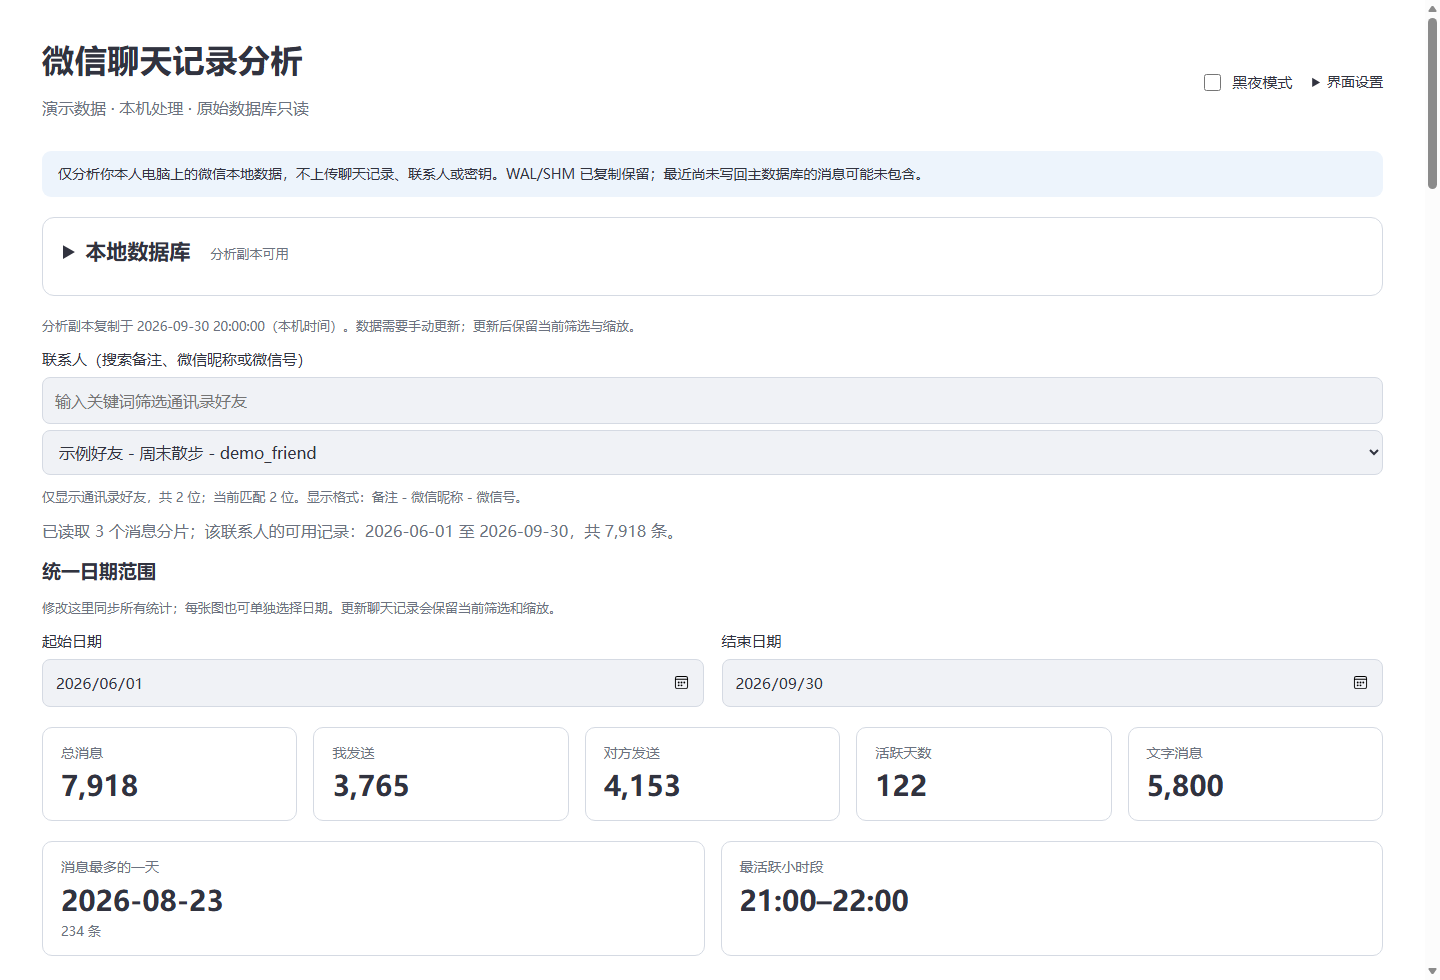
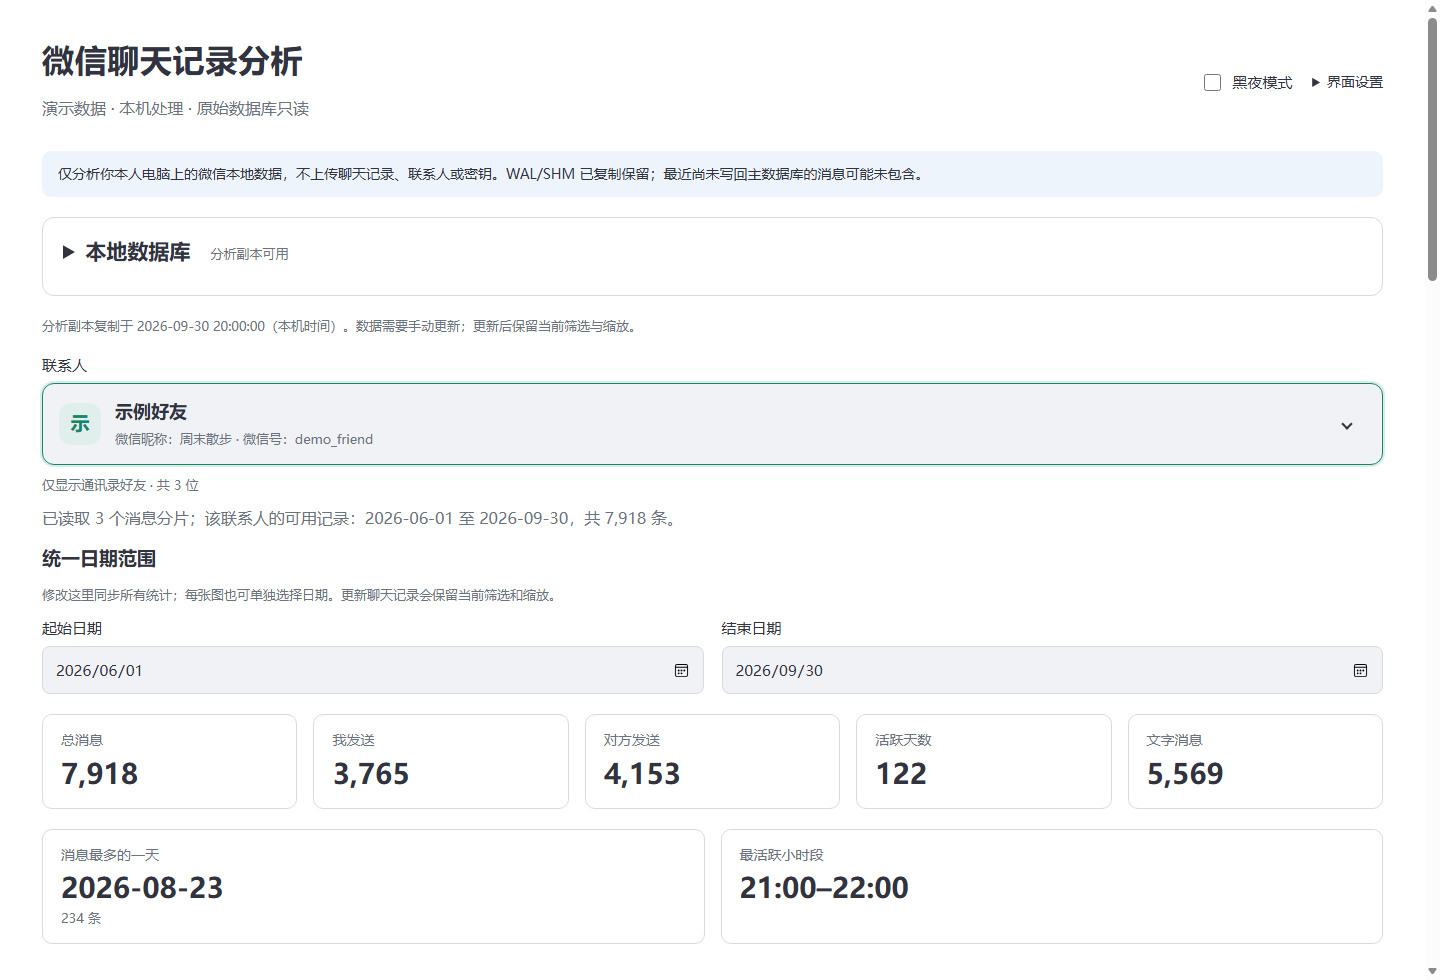
Improve contact selection and collapsible analysis sections

diff --git a/web/static/app.js b/web/static/app.js
@@ -9,8 +9,10 @@ const state = {
   status: null, contacts: [], account: "", username: "", dates: {}, viewports: {},
   data: null, hourly: null, rendering: false, analysisSerial: 0,
   busy: false, loadingAnalysis: false, initializing: false, inspected: false,
+  typeExpanded: false,
   panelTouched: false, finishedTask: "", saveTimer: null, saving: false, saveAgain: false,
 };
+const contactPicker = {items: [], index: -1};
 const number = value => Number(value || 0).toLocaleString("zh-CN");
 function say(message, error = false) {
   $("message").hidden = !message;
@@ -132,6 +134,15 @@ function table(target, columns, rows, message) {
   }
   $(target).append(element);
 }
+function renderMessageTypes(types) {
+  const hiddenCount = Math.max(0, types.length - 3);
+  if (!hiddenCount) state.typeExpanded = false;
+  table("type-table", ["消息类型", "消息数量", "占比", "我发送", "对方发送"],
+    state.typeExpanded ? types : types.slice(0, 3), "所选日期范围内没有可统计的消息类型。");
+  $("type-toggle").hidden = !hiddenCount;
+  $("type-toggle").setAttribute("aria-expanded", String(state.typeExpanded));
+  $("type-toggle-label").textContent = state.typeExpanded ? "收起，只显示前三类" : "展开其余 " + hiddenCount + " 类";
+}
 function renderSummary(data) {
   const s = data.metrics;
   metric("metrics", [["总消息", number(s.total)], ["我发送", number(s.mine)],
@@ -142,8 +153,9 @@ function renderSummary(data) {
   $("sender-note").textContent = data.system_count || data.unknown_count ?
     "总消息包含 " + number(data.system_count) + " 条系统消息、" + number(data.unknown_count) + " 条发送者未识别消息，不计入双方发送数量。" : "";
   metric("reference-metrics", [["引用次数", number(data.references.total)], ["我引用", number(data.references.mine)], ["对方引用", number(data.references.other)]]);
-  table("type-table", ["消息类型", "消息数量", "占比", "我发送", "对方发送"], data.types, "所选日期范围内没有可统计的消息类型。");
+  renderMessageTypes(data.types);
   table("longest-table", ["排名", "字符数", "发送者", "时间", "内容"], data.longest, "所选日期范围内没有可解析的文字消息。");
+  $("longest-count").textContent = data.longest.length + " 条";
   const available = data.available;
   $("available-range").textContent = data.empty ? "该联系人在当前副本中没有可用聊天记录。" :
     "已读取 " + available.shards + " 个消息分片；该联系人的可用记录：" + available.first + " 至 " + available.last + "，共 " + number(available.count) + " 条。";
@@ -186,10 +198,11 @@ async function renderDaily(data) {
     type: "scatter", mode: "lines+markers", name, x: data.dates, y: data.counts[name],
     line: {color: [colors.mine, colors.other, colors.total][index], width: 2, shape: "spline", smoothing: .5},
     marker: {size: 4}, fill: index === 2 ? "tozeroy" : "none", fillcolor: "rgba(113,131,236,.16)",
-    hovertemplate: name + "<br>日期=%{x|%m/%d}<br>消息数量=%{y}<extra></extra>",
+    hovertemplate: name + "：%{y} 条<extra></extra>",
   }));
   const figure = layout(480);
   figure.xaxis = dateAxis("daily", data);
+  figure.xaxis.hoverformat = "%Y-%m-%d";
   figure.yaxis.title = {text: "消息数量"};
   figure.uirevision = state.account + state.username + JSON.stringify(state.dates.daily);
   if (data.period) {
@@ -348,8 +361,9 @@ function updateDisabled() {
   $("decrypt").disabled = state.busy || !pending || !Object.keys(pending.keys).length || !Object.values(pending.keys).every(Boolean);
   $("version").disabled = state.busy;
   $("data-path").disabled = state.busy;
-  $("contact-select").disabled = state.busy;
+  $("contact-toggle").disabled = state.busy || !state.contacts.length;
   $("contact-search").disabled = state.busy;
+  if (state.busy) closeContactPicker();
   document.querySelectorAll("input[type=date]").forEach(input => { input.disabled = state.busy; });
 }
 async function loadAnalysis() {
@@ -386,29 +400,135 @@ function scopedView(username) {
 }
 async function chooseContact(username, preserve = false) {
   state.username = username;
+  closeContactPicker();
   if (!preserve) {
+    state.typeExpanded = false;
+    $("longest-panel").open = false;
     const saved = scopedView(username);
     state.dates = state.preferences.remember.dates ? structuredClone(saved.dates || {}) : {};
     state.viewports = state.preferences.remember.viewports ? structuredClone(saved.viewports || {}) : {};
   }
   await loadAnalysis();
 }
+function contactName(contact) { return contact.display_name || contact.label || contact.username; }
+function contactDetail(contact) {
+  return "微信昵称：" + (contact.nick_name || "未设置昵称") + " · 微信号：" + (contact.wechat_id || contact.username);
+}
+function updateSelectedContact() {
+  const contact = state.contacts.find(item => item.username === state.username);
+  $("contact-search").value = contact ? contactName(contact) : "";
+  $("contact-search").title = contact?.label || "";
+  $("contact-subtitle").textContent = contact ? contactDetail(contact) : "选择一位好友查看聊天统计";
+  $("contact-avatar").textContent = contact ? Array.from(contactName(contact))[0] : "微";
+  $("contact-note").textContent = "仅显示通讯录好友 · 共 " + state.contacts.length + " 位";
+}
+function closeContactPicker() {
+  $("contact-dropdown").hidden = true;
+  $("contact-search").setAttribute("aria-expanded", "false");
+  $("contact-search").removeAttribute("aria-activedescendant");
+  $("contact-toggle").setAttribute("aria-expanded", "false");
+  $("contact-toggle").setAttribute("aria-label", "展开联系人列表");
+  updateSelectedContact();
+}
+function highlightContact(index, scroll = false) {
+  contactPicker.index = index;
+  const entries = $("contact-options").children;
+  Array.from(entries).forEach((entry, position) => entry.classList.toggle("is-active", position === index));
+  if (index < 0) { $("contact-search").removeAttribute("aria-activedescendant"); return; }
+  $("contact-search").setAttribute("aria-activedescendant", entries[index].id);
+  if (scroll) entries[index].scrollIntoView({block: "nearest"});
+}
+function pickContact(username) {
+  if (state.busy) return;
+  if (username === state.username) { closeContactPicker(); return; }
+  say("");
+  chooseContact(username);
+}
 function populateContacts() {
   const search = $("contact-search").value.toLocaleLowerCase().trim();
-  const filtered = state.contacts.filter(contact => contact.label.toLocaleLowerCase().includes(search));
-  $("contact-select").replaceChildren();
-  for (const contact of filtered) {
-    const option = document.createElement("option");
-    option.value = contact.username; option.textContent = contact.label;
-    option.selected = contact.username === state.username;
-    $("contact-select").append(option);
-  }
-  if (!filtered.some(item => item.username === state.username)) $("contact-select").selectedIndex = -1;
-  $("contact-note").textContent = "仅显示通讯录好友，共 " + state.contacts.length + " 位；当前匹配 " + filtered.length + " 位。显示格式：备注 - 微信昵称 - 微信号。";
+  contactPicker.items = state.contacts.filter(contact =>
+    [contact.label, contact.display_name, contact.nick_name, contact.wechat_id, contact.username]
+      .some(value => String(value || "").toLocaleLowerCase().includes(search)));
+  $("contact-options").replaceChildren();
+  contactPicker.items.forEach((contact, index) => {
+    const entry = document.createElement("button");
+    entry.type = "button"; entry.tabIndex = -1;
+    entry.id = "contact-option-" + index; entry.className = "contact-option";
+    entry.setAttribute("role", "option");
+    entry.setAttribute("aria-selected", String(contact.username === state.username));
+    const avatar = document.createElement("span");
+    avatar.className = "contact-avatar"; avatar.setAttribute("aria-hidden", "true");
+    avatar.textContent = Array.from(contactName(contact))[0];
+    const description = document.createElement("span");
+    description.className = "contact-description";
+    const name = document.createElement("span");
+    name.className = "contact-name"; name.textContent = contactName(contact);
+    const detail = document.createElement("span");
+    detail.className = "muted small"; detail.textContent = contactDetail(contact);
+    description.append(name, detail); entry.append(avatar, description);
+    if (contact.username === state.username) {
+      const check = document.createElement("span");
+      check.className = "contact-check"; check.textContent = "✓"; check.setAttribute("aria-hidden", "true");
+      entry.append(check);
+    }
+    entry.addEventListener("mousedown", event => event.preventDefault());
+    entry.addEventListener("click", () => pickContact(contact.username));
+    $("contact-options").append(entry);
+  });
+  $("contact-results").textContent = search ? "匹配 " + contactPicker.items.length + " 位好友" : "共 " + state.contacts.length + " 位好友 · 输入关键词搜索";
+  $("contact-empty").hidden = !!contactPicker.items.length;
+  const selected = contactPicker.items.findIndex(contact => contact.username === state.username);
+  highlightContact(selected >= 0 ? selected : contactPicker.items.length ? 0 : -1);
+}
+function openContactPicker() {
+  if (state.busy || !$("contact-dropdown").hidden) return;
+  $("contact-dropdown").hidden = false;
+  $("contact-search").value = "";
+  $("contact-search").setAttribute("aria-expanded", "true");
+  $("contact-toggle").setAttribute("aria-expanded", "true");
+  $("contact-toggle").setAttribute("aria-label", "收起联系人列表");
+  populateContacts();
+  $("contact-search").focus();
+}
+function installContactEvents() {
+  const input = $("contact-search");
+  input.addEventListener("focus", openContactPicker);
+  input.addEventListener("input", () => {
+    if (state.busy) return;
+    $("contact-dropdown").hidden = false;
+    input.setAttribute("aria-expanded", "true");
+    $("contact-toggle").setAttribute("aria-expanded", "true");
+    $("contact-toggle").setAttribute("aria-label", "收起联系人列表");
+    populateContacts();
+  });
+  input.addEventListener("keydown", event => {
+    if (event.isComposing) return;
+    if (event.key === "ArrowDown" || event.key === "ArrowUp") {
+      event.preventDefault();
+      if ($("contact-dropdown").hidden) { openContactPicker(); return; }
+      if (contactPicker.items.length) {
+        const step = event.key === "ArrowDown" ? 1 : -1;
+        highlightContact((contactPicker.index + step + contactPicker.items.length) % contactPicker.items.length, true);
+      }
+    } else if (event.key === "Enter") {
+      event.preventDefault();
+      if ($("contact-dropdown").hidden) openContactPicker();
+      else if (contactPicker.index >= 0) pickContact(contactPicker.items[contactPicker.index].username);
+    } else if (event.key === "Escape") {
+      event.preventDefault(); closeContactPicker(); input.select();
+    } else if (event.key === "Tab") closeContactPicker();
+  });
+  $("contact-toggle").addEventListener("click", () => {
+    if ($("contact-dropdown").hidden) openContactPicker(); else closeContactPicker();
+  });
+  document.addEventListener("click", event => {
+    if (!$("contact-picker").contains(event.target) && !$("contact-dropdown").hidden) closeContactPicker();
+  });
 }
 async function loadContacts(preserve = false) {
   const response = await api("/api/contacts");
   state.contacts = response.contacts;
+  updateDisabled();
   if (!state.contacts.length) { $("analysis").hidden = true; say("当前副本中没有找到通讯录好友。"); return; }
   const validCurrent = preserve && state.contacts.some(contact => contact.username === state.username);
   if (!validCurrent) {
@@ -417,7 +537,6 @@ async function loadContacts(preserve = false) {
     if (remembered && !state.contacts.some(contact => contact.username === remembered)) say("上次选择的联系人不在当前通讯录中，已选择默认联系人。");
     state.username = state.contacts.some(contact => contact.username === remembered) ? remembered : state.contacts[0].username;
   }
-  populateContacts();
   await chooseContact(state.username, validCurrent);
 }
 function renderStatus(status) {
@@ -552,9 +671,10 @@ function installEvents() {
   $("reinitialize").addEventListener("click", () => {
     state.initializing = true; $("initialization").hidden = false; $("database-panel").open = true; state.panelTouched = true;
   });
-  $("contact-search").addEventListener("input", populateContacts);
-  $("contact-select").addEventListener("change", () => {
-    if ($("contact-select").value) { say(""); chooseContact($("contact-select").value); }
+  installContactEvents();
+  $("type-toggle").addEventListener("click", () => {
+    state.typeExpanded = !state.typeExpanded;
+    renderMessageTypes(state.data?.types || []);
   });
   document.querySelectorAll(".date-controls").forEach(controls => {
     controls.addEventListener("change", () => {

diff --git a/web/static/style.css b/web/static/style.css
@@ -58,6 +58,33 @@ td.content summary { white-space:pre-wrap; padding:0; } td.content pre { white-s
 .settings { position:relative; } .settings > summary { font-size:14px; }
 .settings-content { position:absolute; right:0; top:45px; z-index:100; width:240px; padding:20px; background:var(--background); border:1px solid var(--border); border-radius:10px; box-shadow:0 8px 30px #0002; }
 .settings-content label { margin-top:10px; } .settings-content input { margin-right:8px; }
+.contact-picker { position:relative; margin-top:16px; }
+.contact-control { display:flex; align-items:center; gap:14px; min-height:82px; padding:12px 16px; margin-top:6px; background:var(--surface); border:1px solid var(--border); border-radius:12px; }
+.contact-control:focus-within { border-color:var(--accent); box-shadow:0 0 0 2px color-mix(in srgb,var(--accent) 16%,transparent); }
+.contact-avatar { display:flex; align-items:center; justify-content:center; flex:0 0 42px; height:42px; border-radius:12px; background:color-mix(in srgb,var(--accent) 13%,var(--background)); color:var(--accent); font-weight:600; font-size:19px; }
+.contact-field,.contact-description { flex:1; min-width:0; }
+.contact-field input:not([type=checkbox]) { margin:0; padding:0; background:transparent; border:0; border-radius:0; font-size:18px; font-weight:600; outline:none; }
+#contact-subtitle { display:block; margin-top:3px; overflow:hidden; text-overflow:ellipsis; white-space:nowrap; }
+#contact-toggle { display:flex; align-items:center; justify-content:center; width:38px; height:38px; padding:0; background:transparent; border:0; flex-shrink:0; }
+.chevron { display:inline-block; width:8px; height:8px; border-right:2px solid currentColor; border-bottom:2px solid currentColor; transform:rotate(45deg); transition:transform .15s; }
+[aria-expanded=true] > .chevron { transform:rotate(225deg); }
+.contact-dropdown { position:absolute; top:100%; left:0; right:0; z-index:60; margin-top:7px; padding:8px; background:var(--background); border:1px solid var(--border); border-radius:12px; box-shadow:0 12px 36px #0002; }
+#contact-results { margin:3px 10px 9px; }
+#contact-options { max-height:340px; overflow:auto; overscroll-behavior:contain; }
+.contact-option { display:flex; align-items:center; gap:13px; width:100%; padding:11px 12px; background:transparent; border:1px solid transparent; text-align:left; }
+.contact-option:hover,.contact-option.is-active { background:var(--surface); border-color:var(--border); }
+.contact-option[aria-selected=true] .contact-name { color:var(--accent); }
+.contact-description > span { display:block; overflow:hidden; text-overflow:ellipsis; white-space:nowrap; }
+.contact-name { font-size:16px; font-weight:600; }
+.contact-check { color:var(--accent); font-size:20px; flex-shrink:0; }
+#contact-empty { padding:16px 10px; margin:0; font-size:14px; }
+.disclosure-button { display:flex; align-items:center; gap:10px; margin:12px 0 0; padding:7px 12px; color:var(--muted); font-size:14px; }
+.fold-section > summary { display:flex; align-items:center; gap:12px; list-style:none; font-size:25px; font-weight:600; padding:0; }
+.fold-section > summary::-webkit-details-marker { display:none; }
+.fold-section > summary::before { content:""; width:9px; height:9px; border-right:2px solid var(--muted); border-bottom:2px solid var(--muted); transform:rotate(-45deg); flex-shrink:0; }
+.fold-section[open] > summary::before { transform:rotate(45deg); }
+.fold-section[open] > summary { margin-bottom:18px; }
+.fold-section > summary .small { font-weight:400; }
 footer { text-align:center; color:var(--muted); font-size:12px; padding:35px 0 0; }
 @media(max-width:800px) {
   main { padding:22px 16px; } header { align-items:flex-start; flex-direction:column; gap:8px; } h1 { font-size:27px; }

diff --git a/web/templates/index.html b/web/templates/index.html
@@ -71,9 +71,22 @@
   <p id="loading" class="muted" role="status">正在连接本地数据库……</p>
   <section id="analysis" hidden>
     <p id="copy-note" class="muted small"></p>
-    <label for="contact-search">联系人（搜索备注、微信昵称或微信号）</label>
-    <input id="contact-search" type="search" placeholder="输入关键词筛选通讯录好友">
-    <select id="contact-select" aria-label="联系人"></select>
+    <div id="contact-picker" class="contact-picker">
+      <label id="contact-label" for="contact-search">联系人</label>
+      <div class="contact-control">
+        <span id="contact-avatar" class="contact-avatar" aria-hidden="true"></span>
+        <div class="contact-field">
+          <input id="contact-search" type="text" role="combobox" aria-labelledby="contact-label" aria-autocomplete="list" aria-expanded="false" aria-controls="contact-options" autocomplete="off" spellcheck="false" placeholder="搜索备注、微信昵称或微信号">
+          <span id="contact-subtitle" class="muted small"></span>
+        </div>
+        <button id="contact-toggle" type="button" aria-label="展开联系人列表" aria-controls="contact-options" aria-expanded="false"><span class="chevron" aria-hidden="true"></span></button>
+      </div>
+      <div id="contact-dropdown" class="contact-dropdown" hidden>
+        <p id="contact-results" class="muted small" role="status"></p>
+        <div id="contact-options" role="listbox" aria-label="通讯录好友"></div>
+        <p id="contact-empty" class="muted" hidden>没有匹配的好友，试试备注、昵称或微信号。</p>
+      </div>
+    </div>
     <p id="contact-note" class="muted small"></p>
     <p id="available-range" class="muted"></p>
     <div id="analysis-warnings"></div>
@@ -91,6 +104,7 @@
       <p class="muted small">系统、位置和名片已排除，占比按表内消息总数计算；引用回复按自身内容归类。</p>
       <div id="reference-metrics" class="metrics three"></div>
       <div id="type-table" class="table-wrap"></div>
+      <button id="type-toggle" class="disclosure-button" type="button" aria-expanded="false" aria-controls="type-table" hidden><span id="type-toggle-label"></span><span class="chevron" aria-hidden="true"></span></button>
       <p class="muted small">表情指表情包，文字中的表情符号计为文字；红包和转账按消息条数计数。</p>
     </section>
     <section class="section">
@@ -114,7 +128,11 @@
       <div class="date-controls" data-range="heatmap"><label>本图起始日期<input id="heatmap-start" type="date" min="1970-01-01"></label><label>本图结束日期<input id="heatmap-end" type="date" min="1970-01-01"></label></div>
       <p id="heatmap-count" class="muted small"></p><div id="heatmap-chart" class="chart"></div>
     </section>
-    <section class="section"><h2>最长文字消息</h2><p class="muted small">按 Python 字符数排序，最多 20 条；点击内容可展开完整文字。</p><div id="longest-table" class="table-wrap"></div></section>
+    <details id="longest-panel" class="section fold-section">
+      <summary>最长文字消息 <span id="longest-count" class="muted small"></span></summary>
+      <p class="muted small">按 Python 字符数排序，最多 20 条；点击内容可展开完整文字。</p>
+      <div id="longest-table" class="table-wrap"></div>
+    </details>
   </section>
   <footer>所有数据仅在本机处理 · 工作区、设置、数据库和密钥默认不提交 Git</footer>
 </main>

diff --git a/tests/test_web.py b/tests/test_web.py
@@ -47,6 +47,8 @@ class WebTests(unittest.TestCase):
     def test_analysis_and_local_interfaces(self):
         contacts = self.client.get("/api/contacts").get_json()["contacts"]
         self.assertEqual(contacts[0]["label"], "测试备注 - 测试名字 - synthetic_user")
+        self.assertEqual((contacts[0]["display_name"], contacts[0]["nick_name"], contacts[0]["wechat_id"]),
+                         ("测试备注", "测试名字", "synthetic_user"))
         response = self.client.post("/api/analysis", json={"username": "synthetic_user"})
         self.assertEqual(response.status_code, 200)
         result = response.get_json()

diff --git a/web/service.py b/web/service.py
@@ -112,7 +112,7 @@ class Service:
             self._ready()
             if self.contacts_cache is None:
                 self.contacts_cache = load_contacts(self.root / "active" / "decrypted" / "contact.db")
-            return records(self.contacts_cache[["username", "label"]])
+            return records(self.contacts_cache[["username", "label", "display_name", "nick_name", "wechat_id"]])
 
     def analyze(self, payload: dict) -> dict:
         if self.tasks.busy:

diff --git a/README.md b/README.md
@@ -16,12 +16,12 @@
 - **浏览聊天趋势**：按日查看「我 / 对方 / 总计」，默认聚焦最近一个月；滚轮缩放日期，按住左键拖动，也可以使用底部滑条浏览历史。
 - **找到持续高活跃的日期**：自动标出聊天较密集的一段，长度不固定，并显示起止日期和消息数量。
 - **观察聊天时间**：24 小时消息分布，以及红色的星期 × 小时热力图。每张图都能单独选择日期。
-- **查看消息类型**：文字、图片、语音、表情等类型的数量和占比；系统、位置、名片不列入类型表，引用次数单独统计。
-- **查看最长文字**：列出前 20 条，按字符数排序，支持普通文字和 zstd 压缩的长文本。
+- **查看消息类型**：默认展示数量最多的三类，其余可展开查看；占比仍按全部类型计算。系统、位置、名片不列入类型表，引用次数单独统计。
+- **查看最长文字**：默认折叠，展开可查看前 20 条，按字符数排序，支持普通文字和 zstd 压缩的长文本。
 - **一键更新数据**：重新从微信目录复制并解析聊天记录，成功后替换分析副本；失败时保留原有可用数据。
 - **记住使用习惯**：可分别开启主题、联系人、日期范围、图表缩放的记忆，下次打开继续使用。
 
-联系人按 **备注 - 微信昵称 - 微信号** 展示，支持搜索；没有自定义微信号时显示内部 ID。聊天记录会跨所有消息数据库分片读取，没有固定的「2025 年以后」限制。
+联系人使用一个可搜索的选择框，**备注优先作为主名称，微信昵称和微信号在第二行显示**；支持方向键选择、回车确认和 Esc 收起。没有自定义微信号时显示内部 ID。聊天记录会跨所有消息数据库分片读取，没有固定的「2025 年以后」限制。
 
 <details>
 <summary>查看图表与黑夜模式</summary>
